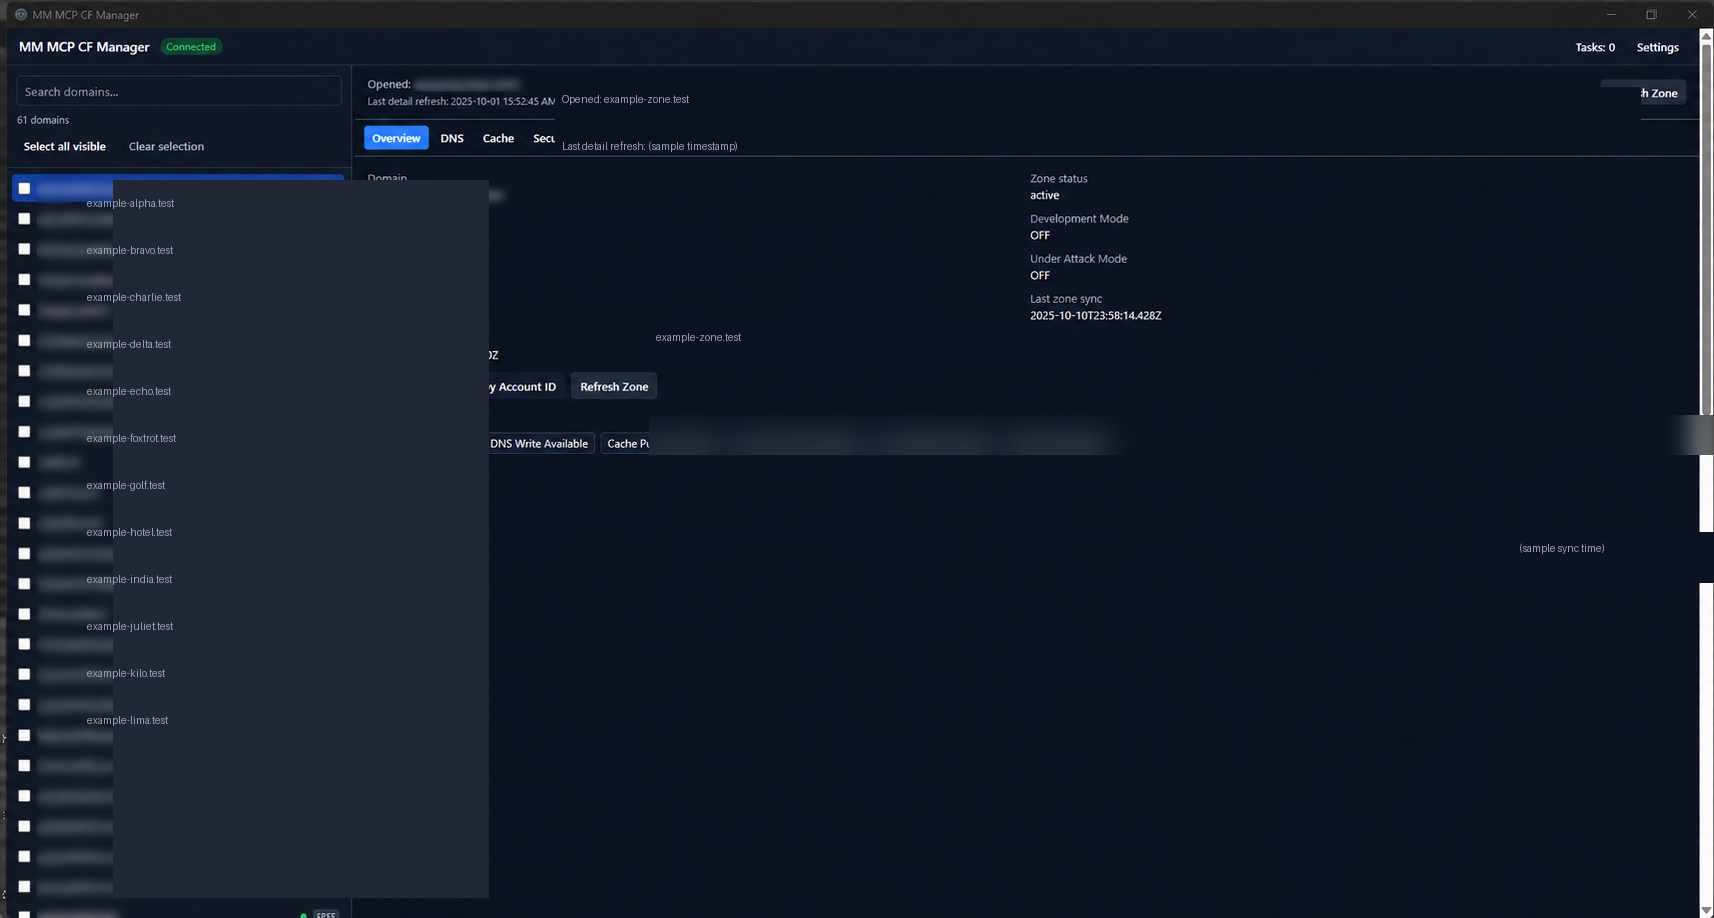
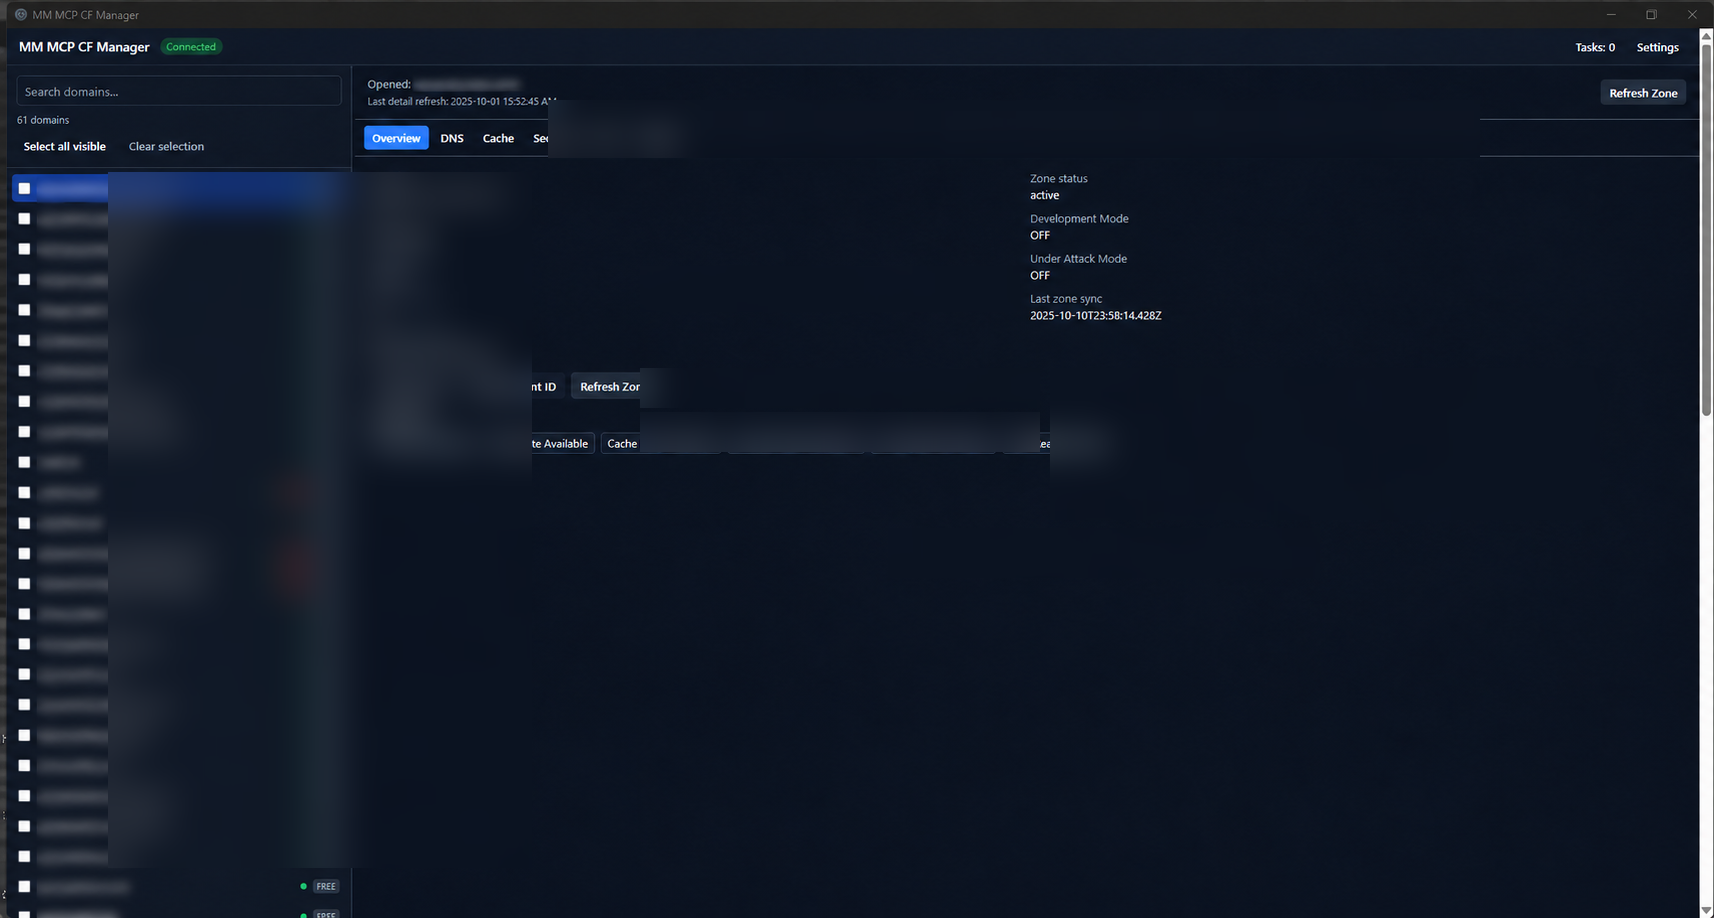
Update README.md with refined instructions for regenerating app screenshots, emphasizing the need to blur domain names. Enhance redaction script to improve privacy by applying additional blurring to sensitive areas in screenshots.

diff --git a/scripts/redact-screenshots-for-readme.py b/scripts/redact-screenshots-for-readme.py
@@ -3,7 +3,7 @@ from __future__ import annotations
 
 from pathlib import Path
 
-from PIL import Image, ImageDraw, ImageFilter
+from PIL import Image, ImageFilter
 
 ROOT = Path(__file__).resolve().parents[1]
 OUT_DIR = ROOT / "docs" / "screenshots"
@@ -12,14 +12,25 @@ SRC_DIR = OUT_DIR / "source"
 SS_SRC = SRC_DIR / "ss-original.png"
 WARN_SRC = SRC_DIR / "windows-smartscreen-original.png"
 
-# Layout reference size (first full-window capture); boxes scale to actual image size.
-REF_SIZE = (1024, 548)
+# Full-window capture (root ss.png). Boxes are defined in this coordinate space.
+APP_REF_SIZE = (1714, 918)
+
+# Blur-only verification on top of a manually redacted ss-original (sidebar + domain rows).
+APP_BLUR_BOXES: tuple[tuple[int, int, int, int], ...] = (
+    (108, 172, 532, 868),  # sidebar domain labels
+    (548, 100, 1480, 158),  # header opened zone + detail refresh line
+    (640, 266, 1020, 312),  # overview "Domain" value
+    (640, 368, 1040, 408),  # last zone sync (left column)
+    (640, 412, 1040, 452),  # last detail refresh (left column)
+    (1050, 368, 1600, 520),  # overview right-column sync / refresh timestamps
+    (888, 528, 1320, 578),  # copy zone / account id buttons (ids in tooltips or labels)
+)
 
 
 def scale_box(
     box: tuple[int, int, int, int],
     size: tuple[int, int],
-    ref: tuple[int, int] = REF_SIZE,
+    ref: tuple[int, int],
 ) -> tuple[int, int, int, int]:
     x0, y0, x1, y1 = box
     sx = size[0] / ref[0]
@@ -29,80 +40,21 @@ def scale_box(
 
 def blur_box(im: Image.Image, box: tuple[int, int, int, int], radius: int = 12) -> None:
     x0, y0, x1, y1 = box
+    x0 = max(0, min(x0, im.width - 1))
+    x1 = max(x0 + 1, min(x1, im.width))
+    y0 = max(0, min(y0, im.height - 1))
+    y1 = max(y0 + 1, min(y1, im.height))
     if x1 <= x0 or y1 <= y0:
         return
     region = im.crop((x0, y0, x1, y1))
     im.paste(region.filter(ImageFilter.GaussianBlur(radius)), (x0, y0))
 
 
-def fill_box(im: Image.Image, box: tuple[int, int, int, int], fill: tuple[int, int, int]) -> None:
-    draw = ImageDraw.Draw(im)
-    draw.rectangle(box, fill=fill)
-
-
-def label(
-    im: Image.Image,
-    xy: tuple[int, int],
-    text: str,
-    fill: tuple[int, int, int] = (148, 163, 184),
-) -> None:
-    draw = ImageDraw.Draw(im)
-    draw.text(xy, text, fill=fill)
-
-
 def redact_app_screenshot(path_in: Path, path_out: Path) -> None:
     im = Image.open(path_in).convert("RGB")
-    w, h = im.size
-
-    # Sample from chrome areas (avoid blurred domain pixels in ss-original)
-    sidebar_fill = im.getpixel(scale_box((24, 200, 25, 201), (w, h))[:2])
-    main_fill = im.getpixel(scale_box((520, 320, 521, 321), (w, h))[:2])
-    header_fill = im.getpixel(scale_box((520, 100, 521, 101), (w, h))[:2])
-
-    # Sidebar domain names (between checkbox and FREE/UAM badges)
-    fill_box(im, scale_box((68, 108, 292, 536), (w, h)), sidebar_fill)
-    sample_domains = [
-        "example-alpha.test",
-        "example-bravo.test",
-        "example-charlie.test",
-        "example-delta.test",
-        "example-echo.test",
-        "example-foxtrot.test",
-        "example-golf.test",
-        "example-hotel.test",
-        "example-india.test",
-        "example-juliet.test",
-        "example-kilo.test",
-        "example-lima.test",
-    ]
-    y0 = scale_box((52, 118, 53, 119), (w, h))[1]
-    step = max(22, scale_box((52, 146, 53, 147), (w, h))[1] - y0)
-    x_label = scale_box((52, 118, 53, 119), (w, h))[0]
-    y = y0
-    for name in sample_domains:
-        if y > h - 40:
-            break
-        label(im, (x_label, y), name)
-        y += step
-
-    # Main header "Opened:" + detail refresh line
-    fill_box(im, scale_box((332, 52, 980, 88), (w, h)), header_fill)
-    hx = scale_box((336, 56, 337, 57), (w, h))[0]
-    hy = scale_box((336, 56, 337, 57), (w, h))[1]
-    label(im, (hx, hy), "Opened: example-zone.test")
-    label(im, (hx, hy + step), "Last detail refresh: (sample timestamp)")
-
-    # Overview "Domain" value (left column)
-    fill_box(im, scale_box((388, 196, 640, 218), (w, h)), main_fill)
-    label(im, scale_box((392, 198, 393, 199), (w, h))[:2], "example-zone.test")
-
-    # ISO timestamps in overview (optional metadata redaction)
-    blur_box(im, scale_box((388, 248, 720, 272), (w, h)), radius=14)
-    blur_box(im, scale_box((900, 248, 1180, 272), (w, h)), radius=14)
-    blur_box(im, scale_box((900, 320, 1180, 344), (w, h)), radius=14)
-    fill_box(im, scale_box((900, 318, 1210, 348), (w, h)), main_fill)
-    label(im, scale_box((908, 324, 909, 325), (w, h))[:2], "(sample sync time)")
-
+    size = im.size
+    for box in APP_BLUR_BOXES:
+        blur_box(im, scale_box(box, size, APP_REF_SIZE), radius=16)
     OUT_DIR.mkdir(parents=True, exist_ok=True)
     im.save(path_out, optimize=True)
 

diff --git a/README.md b/README.md
@@ -36,7 +36,7 @@ First launch on Windows — SmartScreen may warn because `run-app.bat` is not co
 
 ![Windows SmartScreen when running run-app.bat](docs/screenshots/windows-run-app-smartscreen-redacted.png)
 
-To regenerate the app screenshot, copy your capture to `docs/screenshots/source/ss-original.png` (gitignored), then run `python scripts/redact-screenshots-for-readme.py` (requires Pillow). Commit only `docs/screenshots/app-screenshot.png`, not `ss.png` or anything under `source/`.
+To regenerate the app screenshot, blur domain names in your capture (e.g. root `ss.png`), copy it to `docs/screenshots/source/ss-original.png` (gitignored), then run `python scripts/redact-screenshots-for-readme.py` (requires Pillow). The script applies an extra blur pass on headers and timestamps; commit only `docs/screenshots/app-screenshot.png`, not `ss.png` or anything under `source/`.
 
 ## Requirements
 
